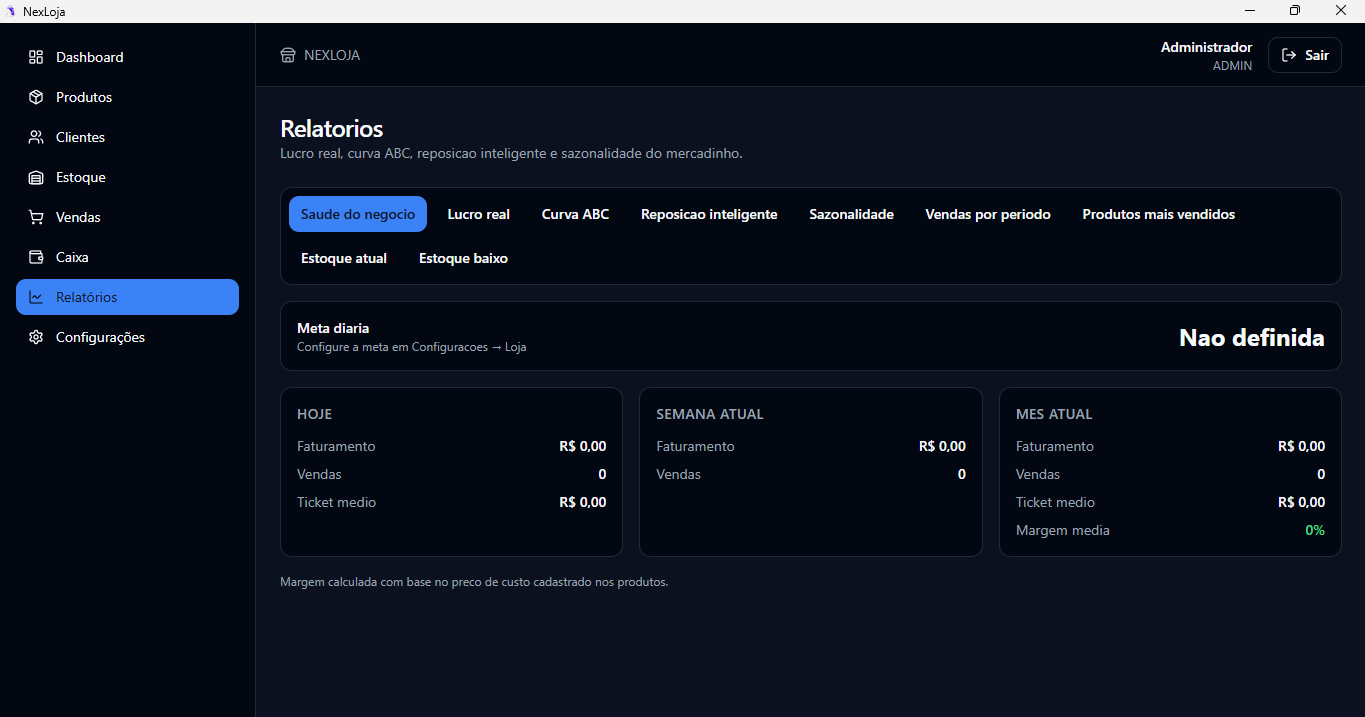
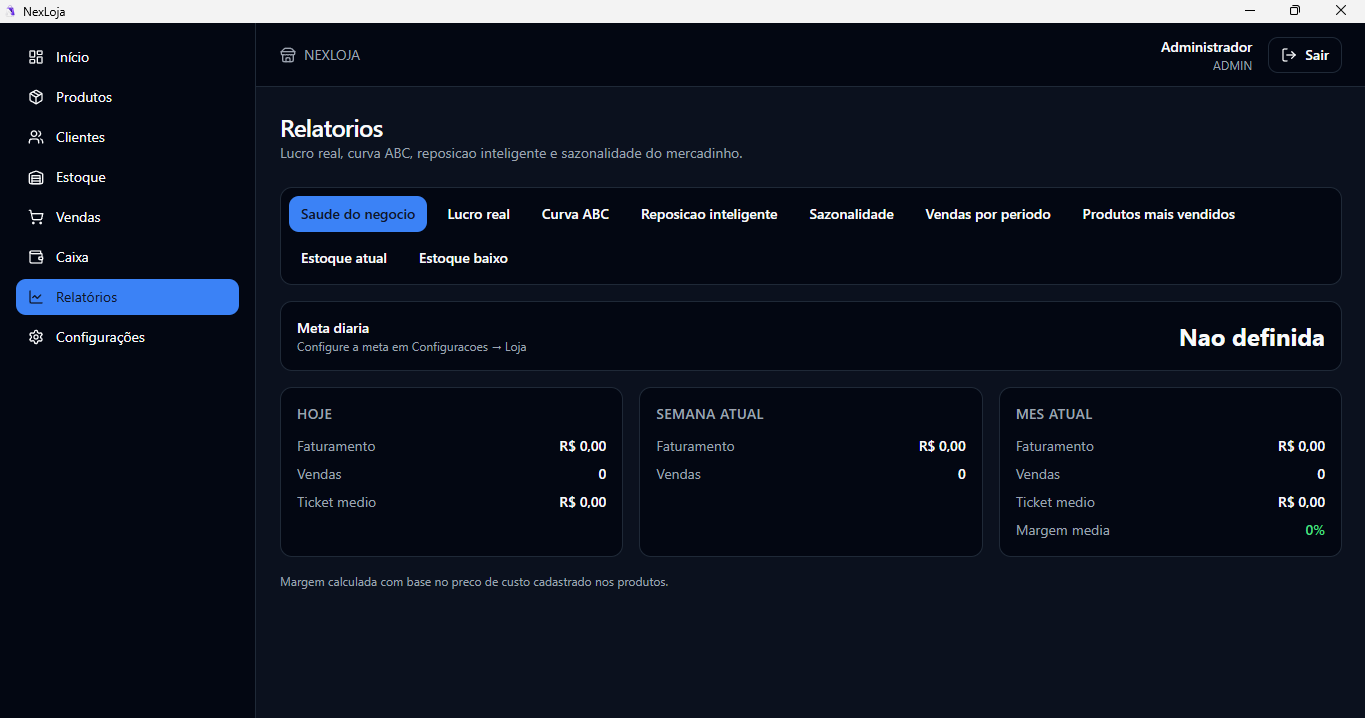
Atualiza UI, screenshots e documentação do cliente

diff --git a/front/src/pages/dashboard/dashboard-page.tsx b/front/src/pages/dashboard/dashboard-page.tsx
@@ -25,7 +25,7 @@ export function DashboardPage(): JSX.Element {
 
   return (
     <section className="space-y-4">
-      <PageTitle title="Dashboard" description="Visao rapida do mercadinho para decidir caixa, estoque e lucro em poucos minutos." />
+      <PageTitle title="Início" description="Visao rapida do mercadinho para decidir caixa, estoque e lucro em poucos minutos." />
 
       {dashboardQuery.isLoading ? (
         <Card>

diff --git a/front/src/shared/components/sidebar.tsx b/front/src/shared/components/sidebar.tsx
@@ -13,7 +13,7 @@ type LinkItem = {
 };
 
 const links: LinkItem[] = [
-  { to: appRoutes.dashboard, label: "Dashboard", icon: LayoutDashboard },
+  { to: appRoutes.dashboard, label: "Início", icon: LayoutDashboard },
   { to: appRoutes.produtos, label: "Produtos", icon: Package },
   { to: appRoutes.clientes, label: "Clientes", icon: Users },
   { to: appRoutes.estoque, label: "Estoque", icon: Warehouse },

diff --git a/README.md b/README.md
@@ -2,20 +2,24 @@
 
 # NexLoja
 
-**ERP simples para mercadinho de bairro — rápido, offline e fácil de usar.**
+**Sistema de gestão desktop para loja de bairro, desenvolvido sob encomenda para cliente real.**
 
 [![TypeScript](https://img.shields.io/badge/TypeScript-3178C6?style=flat-square&logo=typescript&logoColor=white)](https://www.typescriptlang.org/)
 [![React](https://img.shields.io/badge/React_18-61DAFB?style=flat-square&logo=react&logoColor=black)](https://react.dev/)
 [![Electron](https://img.shields.io/badge/Electron-47848F?style=flat-square&logo=electron&logoColor=white)](https://www.electronjs.org/)
 [![SQLite](https://img.shields.io/badge/SQLite-003B57?style=flat-square&logo=sqlite&logoColor=white)](https://sqlite.org/)
 
-> ERP desktop focado em mercadinho de bairro para controlar caixa, estoque e lucro em 5 minutos por dia, com operação offline e persistência local em SQLite.
+> Sistema desktop criado para atender a rotina de uma loja cliente, com controle de caixa, estoque, vendas e indicadores essenciais mesmo sem depender de internet.
 
 **Posicionamento do produto**
 
 - Nicho principal: **mercadinho de bairro**
 - Público: dono(a), gerente e operador de caixa sem perfil técnico
 - Promessa: **controle caixa, estoque e lucro em 5 minutos por dia**
+
+## Contexto do projeto
+
+O NexLoja foi desenvolvido como **software sob encomenda para uma loja cliente**, com foco em uso real no balcão e na operação diária. A solução prioriza rapidez, clareza visual, operação offline e fluxo simples para quem precisa vender, repor estoque e fechar caixa sem complexidade.
 
 ## Screenshots
 
@@ -209,6 +213,6 @@ Ao executar o instalador, ele cria atalho no Menu Iniciar e na área de trabalho
 
 <div align="center">
 
-Feito por [Nicolas Cardoso](https://github.com/NicolasCardoso2) · [LinkedIn](https://www.linkedin.com/in/nicolas-cardoso-vilha-do-lago-2483b1322/)
+Projeto desenvolvido por [Nicolas Cardoso](https://github.com/NicolasCardoso2) sob encomenda para cliente do varejo · [LinkedIn](https://www.linkedin.com/in/nicolas-cardoso-vilha-do-lago-2483b1322/)
 
 </div>